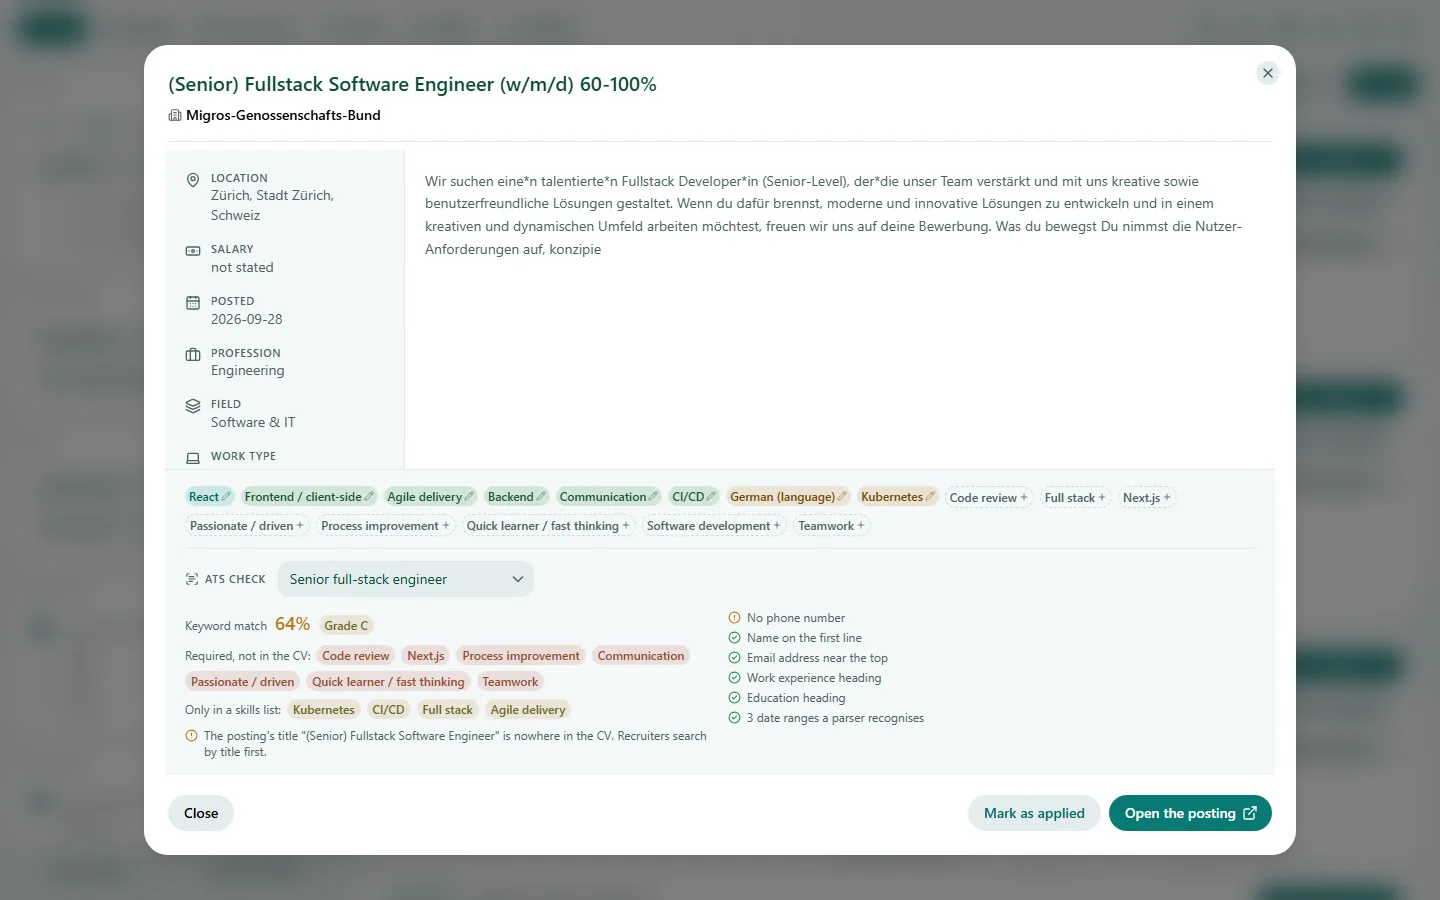
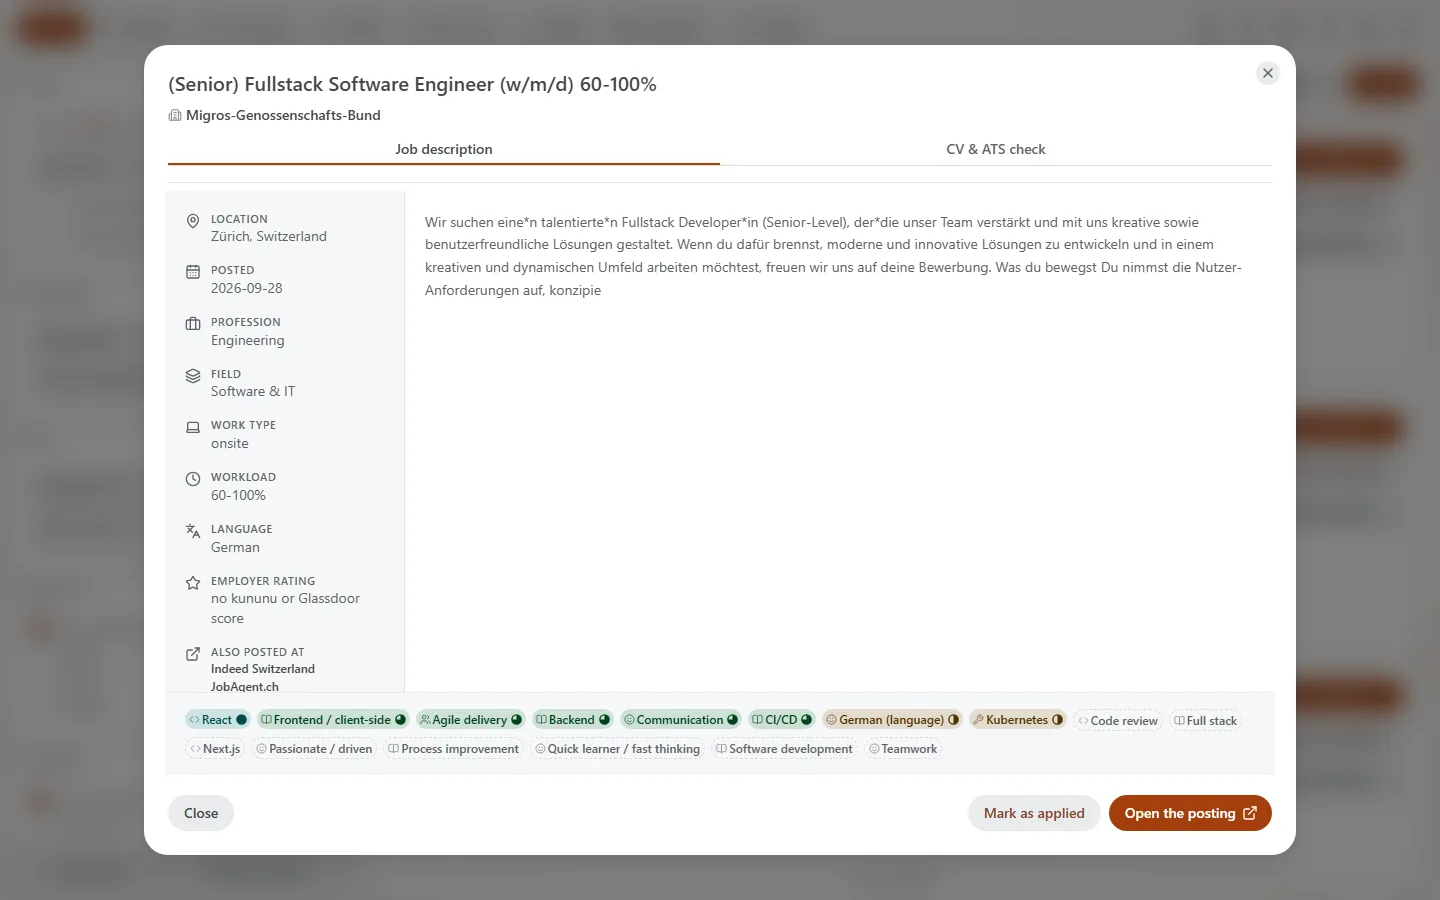
site: rebrand to I-Jobs - name, mark, palette, fresh screenshots
Shown name Job-I -> I-Jobs (binary, command, URLs unchanged), the new mark
and favicons, the I-Jobs light/dark palette (AA), and screenshots retaken
off the demo profile: new theme, no salaries (removed from the app).

diff --git a/site/index.html b/site/index.html
@@ -3,10 +3,10 @@
 <head>
 <meta charset="utf-8">
 <meta name="viewport" content="width=device-width, initial-scale=1">
-<title>Job-I</title>
-<meta name="description" content="Job-I pulls postings from company career sites and job boards, scores them against the skills you set, and keeps everything on your own machine. No account, no telemetry.">
+<title>I-Jobs</title>
+<meta name="description" content="I-Jobs pulls postings from company career sites and job boards, scores them against the skills you set, and keeps everything on your own machine. No account, no telemetry.">
 <meta name="color-scheme" content="light dark">
-<meta property="og:title" content="Job-I">
+<meta property="og:title" content="I-Jobs">
 <meta property="og:description" content="Every job from 800+ company career sites, scored against your own skills, on your machine.">
 <meta property="og:type" content="website">
 <meta property="og:image" content="https://canyavall.github.io/job-i/img/social_media_card.png">
@@ -25,7 +25,7 @@
         <source srcset="img/mark-dark.png" media="(prefers-color-scheme: dark)">
         <img src="img/mark.png" alt="" width="32" height="32">
       </picture>
-      <span>Job-I</span>
+      <span>I-Jobs</span>
     </a>
     <nav aria-label="Sections">
       <a href="#tools">Tools</a>
@@ -41,7 +41,7 @@
 <section class="hero">
   <div class="wrap">
     <h1>Every job from <span data-cov="floor">800+</span> company career sites, scored against your own skills, on your machine.</h1>
-    <p class="lead">Job-I reads the employers' own job pages and the boards you pick, puts every posting in one list, and ranks it by the skills you say you have and the skills you want to use. It runs on your computer. There is no account and nothing to sign up for.</p>
+    <p class="lead">I-Jobs reads the employers' own job pages and the boards you pick, puts every posting in one list, and ranks it by the skills you say you have and the skills you want to use. It runs on your computer. There is no account and nothing to sign up for.</p>
     <div class="cta">
       <a class="btn primary" id="dl-main" href="#download">Download</a>
       <a class="btn" href="#tools">See the tools</a>
@@ -50,7 +50,7 @@
     <figure class="shot hero-shot">
       <picture>
         <source srcset="img/jobs-dark.webp" media="(prefers-color-scheme: dark)">
-        <img src="img/jobs-light.webp" width="1440" height="900" alt="The Jobs screen: filters for profession, field and work type on the left, and a list of job cards, each with a Job-I score, the employer, location, date, and the skills the posting asks for.">
+        <img src="img/jobs-light.webp" width="1440" height="900" alt="The Jobs screen: filters for profession, field and work type on the left, and a list of job cards, each with an I-Jobs score, the employer, location, date, and the skills the posting asks for.">
       </picture>
       <figcaption>The Jobs screen, with the demo profile "Alex Demo".</figcaption>
     </figure>
@@ -75,7 +75,7 @@
           <source srcset="img/profile-dark.webp" media="(prefers-color-scheme: dark)">
           <img src="img/profile-light.webp" width="1440" height="900" loading="lazy" alt="The Profile screen: name, country and city, the professions picked, and tables of skills with a My expertise and a Goal importance number for each.">
         </picture>
-        <figcaption>Your profile: two numbers per skill. To fill it in the first time, Job-I writes a prompt. You paste it and your CV into any chat assistant you like, then paste the answer back.</figcaption>
+        <figcaption>Your profile: two numbers per skill. To fill it in the first time, I-Jobs writes a prompt. You paste it and your CV into any chat assistant you like, then paste the answer back.</figcaption>
       </figure>
     </article>
 
@@ -94,7 +94,7 @@
       <figure class="shot">
         <picture>
           <source srcset="img/job-dark.webp" media="(prefers-color-scheme: dark)">
-          <img src="img/job-light.webp" width="1440" height="900" loading="lazy" alt="A job posting opened in a dialog: location, salary, date and field on the left, the description, the skills it asks for, and an ATS check panel with a 64% keyword match, grade C, missing skills and a list of file checks.">
+          <img src="img/job-light.webp" width="1440" height="900" loading="lazy" alt="A job posting opened in a dialog: location, date, field, workload and employer rating on the left, the description, the skills it asks for, and an ATS check panel with a 64% keyword match, grade C, missing skills and a list of file checks.">
         </picture>
         <figcaption>One posting, with the CV check at the bottom.</figcaption>
       </figure>
@@ -103,20 +103,20 @@
     <article class="tool">
       <div class="text">
         <h3>Markets</h3>
-        <p>Every posting Job-I has ever pulled is kept, with the day it first appeared and the day it disappeared. The Markets tab uses that history to show:</p>
+        <p>Every posting I-Jobs has ever pulled is kept, with the day it first appeared and the day it disappeared. The Markets tab uses that history to show:</p>
         <ul>
           <li>how many jobs are posted over time</li>
           <li>which skills employers ask for, next to your own two numbers</li>
           <li>who is hiring</li>
           <li>how long roles stay open</li>
-          <li>salaries where postings publish them, plus the split by work mode and country</li>
+          <li>the split by work mode and country</li>
         </ul>
         <p>Filter by profession, field or country, or look at the whole market.</p>
       </div>
       <figure class="shot">
         <picture>
           <source srcset="img/markets-dark.webp" media="(prefers-color-scheme: dark)">
-          <img src="img/markets-light.webp" width="1440" height="900" loading="lazy" alt="The Market screen: counts of open and new jobs, the share that publishes a salary, and a table of skills in demand with the share of postings asking for each, next to the profile's expertise and goal numbers.">
+          <img src="img/markets-light.webp" width="1440" height="900" loading="lazy" alt="The Market screen: counts of open and new jobs, median days open, and a table of skills in demand with the share of postings asking for each, next to the profile's expertise and goal numbers.">
         </picture>
         <figcaption>Skills in demand, next to your own two numbers. The demo has only one day of history.</figcaption>
       </figure>
@@ -125,8 +125,8 @@
     <article class="tool">
       <div class="text">
         <h3>Applied</h3>
-        <p>Mark a job as applied and it moves to a timeline. Marking one copy covers every other place the same vacancy was posted. Attach the CV and cover letter you sent; Job-I keeps a copy as it was that day, so editing your CV later doesn't change the record.</p>
-        <p>If you connect your mailbox, Job-I reads it over IMAP with an app password you create and matches replies to the applications they answer. You can see who replied, who turned you down, and who has been quiet for how many days. The mailbox is off until you set it up.</p>
+        <p>Mark a job as applied and it moves to a timeline. Marking one copy covers every other place the same vacancy was posted. Attach the CV and cover letter you sent; I-Jobs keeps a copy as it was that day, so editing your CV later doesn't change the record.</p>
+        <p>If you connect your mailbox, I-Jobs reads it over IMAP with an app password you create and matches replies to the applications they answer. You can see who replied, who turned you down, and who has been quiet for how many days. The mailbox is off until you set it up.</p>
       </div>
       <figure class="shot">
         <picture>
@@ -154,8 +154,8 @@
     <article class="tool">
       <div class="text">
         <h3>Companies</h3>
-        <p>The company list ships with the app: every employer Job-I knows, where it is, and how to pull its jobs. Each one shows facts from public sources, labelled with where they came from: kununu and Glassdoor ratings, founding year and headcount from Wikidata, its public GitHub organisation, and Great Place to Work entries.</p>
-        <p>The list also says which employers can't be pulled yet, and why. Add a company yourself and Job-I looks up the same facts for it.</p>
+        <p>The company list ships with the app: every employer I-Jobs knows, where it is, and how to pull its jobs. Each one shows facts from public sources, labelled with where they came from: kununu and Glassdoor ratings, founding year and headcount from Wikidata, its public GitHub organisation, and Great Place to Work entries.</p>
+        <p>The list also says which employers can't be pulled yet, and why. Add a company yourself and I-Jobs looks up the same facts for it.</p>
       </div>
       <figure class="shot">
         <picture>
@@ -171,7 +171,7 @@
 <section id="privacy" class="privacy">
   <div class="wrap">
     <h2>Your data stays on your computer</h2>
-    <p class="lead">Job-I is one file. Put it in a folder, run it, and everything it creates goes in that folder: your profile, your CVs, your applications, the postings it pulled. Back it up, move it to another computer or delete it. There is no Job-I server and no account. Nothing about you is sent to us.</p>
+    <p class="lead">I-Jobs is one file. Put it in a folder, run it, and everything it creates goes in that folder: your profile, your CVs, your applications, the postings it pulled. Back it up, move it to another computer or delete it. There is no I-Jobs server and no account. Nothing about you is sent to us.</p>
     <div class="cols">
       <div>
         <h3>No telemetry</h3>
@@ -205,7 +205,7 @@
       <div data-stat="boards" hidden><dt>job boards</dt><dd data-cov="boards">-</dd></div>
       <div data-stat="classes" hidden><dt>skills in the dictionary</dt><dd data-cov="classes">-</dd></div>
     </dl>
-    <p class="small">Some companies on the list don't have a connection yet. Job-I shows them anyway and says what's blocking each one.</p>
+    <p class="small">Some companies on the list don't have a connection yet. I-Jobs shows them anyway and says what's blocking each one.</p>
   </div>
 </section>
 
@@ -227,7 +227,7 @@
     <p class="small">To check a file against its SHA-256: <code>certutil -hashfile job-i-windows-x64.exe SHA256</code> on Windows, <code>shasum -a 256 job-i-darwin-arm64</code> on macOS, <code>sha256sum job-i-linux-x64</code> on Linux.</p>
 
     <h3>First launch</h3>
-    <p>Put the file in an empty folder of its own, such as <code>Job-I</code>. When it starts, it creates its data next to itself and opens the dashboard. The files aren't code-signed yet, so your system will warn you the first time:</p>
+    <p>Put the file in an empty folder of its own, such as <code>I-Jobs</code>. When it starts, it creates its data next to itself and opens the dashboard. The files aren't code-signed yet, so your system will warn you the first time:</p>
     <div class="cols">
       <div>
         <h4>Windows</h4>
@@ -247,14 +247,14 @@ xattr -d com.apple.quarantine job-i-darwin-arm64
 ./job-i-linux-x64</code></pre>
       </div>
     </div>
-    <p class="small">After that, Job-I checks for updates itself and shows new versions in its notification bell. It never installs one without asking.</p>
+    <p class="small">After that, I-Jobs checks for updates itself and shows new versions in its notification bell. It never installs one without asking.</p>
   </div>
 </section>
 
 <section id="contribute" class="contribute">
   <div class="wrap">
     <h2>Contribute</h2>
-    <p>The company list and the skill dictionary are shared by everyone who uses Job-I. When you connect a new employer or fix a skill, that fix could help everybody else too. A "Share my changes" flow for sending them back is coming. Until then, bug reports and companies worth adding are welcome as issues on <a href="https://github.com/canyavall/job-i">github.com/canyavall/job-i</a>.</p>
+    <p>The company list and the skill dictionary are shared by everyone who uses I-Jobs. When you connect a new employer or fix a skill, that fix could help everybody else too. A "Share my changes" flow for sending them back is coming. Until then, bug reports and companies worth adding are welcome as issues on <a href="https://github.com/canyavall/job-i">github.com/canyavall/job-i</a>.</p>
   </div>
 </section>
 
@@ -262,7 +262,7 @@ xattr -d com.apple.quarantine job-i-darwin-arm64
 
 <footer class="foot">
   <div class="wrap">
-    <p>Job-I. Runs locally. This site uses no cookies and no analytics; the download button reads the current version from GitHub.</p>
+    <p>I-Jobs. Runs locally. This site uses no cookies and no analytics; the download button reads the current version from GitHub.</p>
   </div>
 </footer>
 </body>

diff --git a/site/style.css b/site/style.css
@@ -1,16 +1,18 @@
-/* Colours are the dashboard's own Job-I / Job-I Night themes (app/client/heroui/themes.ts). */
+/* Colours are the dashboard's own I-Jobs / I-Jobs Night themes (job-i-src
+   libs-fe/ui/theme/theme.constant.ts): Soft Paper / Charcoal Slate by day, Midnight Charcoal
+   by night, Horizon Orange deepened (day) or lifted (night) until it passes AA as text. */
 :root {
-  --bg: #f4f8f9; --surface: #ffffff; --surface2: #eef4f5; --border: #cfdddf;
-  --fg: #0d4c2d; --text: #1d3a30; --muted: #4a655d;
-  --accent: #0a7a74; --accent-fg: #ffffff; --teal: #0d9891;
+  --bg: #fafafa; --surface: #ffffff; --surface2: #f3f4f5; --border: #d9dde1;
+  --fg: #41474d; --text: #41474d; --muted: #5c636a;
+  --accent: #a33f0c; --accent-fg: #ffffff; --ring: #a33f0c;
   --radius: 14px;
   color-scheme: light dark;
 }
 @media (prefers-color-scheme: dark) {
   :root {
-    --bg: #10231d; --surface: #162f28; --surface2: #1c3831; --border: #2e4f47;
-    --fg: #e8f2f0; --text: #d5e4e0; --muted: #a3bab5;
-    --accent: #2cb5ab; --accent-fg: #06201b; --teal: #4fc9c0;
+    --bg: #1e232a; --surface: #252b33; --surface2: #2c333c; --border: #3b444f;
+    --fg: #eef0f2; --text: #eef0f2; --muted: #a9b1ba;
+    --accent: #ff8140; --accent-fg: #1e232a; --ring: #ff8140;
   }
 }
 
@@ -52,7 +54,7 @@ section:nth-of-type(even) { background: var(--surface2); }
 .btn { display: inline-block; padding: .7rem 1.3rem; border-radius: 999px; border: 1px solid var(--border); background: var(--surface); color: var(--fg); font-weight: 600; text-decoration: none; }
 .btn.primary { background: var(--accent); border-color: var(--accent); color: var(--accent-fg); }
 .btn:hover { filter: brightness(1.06); }
-.btn:focus-visible, a:focus-visible { outline: 3px solid var(--teal); outline-offset: 2px; }
+.btn:focus-visible, a:focus-visible { outline: 3px solid var(--ring); outline-offset: 2px; }
 
 .shot { margin: 0; }
 .shot img { border-radius: var(--radius); border: 1px solid var(--border); box-shadow: 0 10px 40px rgb(0 0 0 / .12); }
@@ -80,7 +82,7 @@ section:nth-of-type(odd) .cols > div { background: var(--surface2); }
 .dl { width: 100%; border-collapse: collapse; background: var(--surface); border-radius: var(--radius); overflow: hidden; }
 .dl th, .dl td { text-align: left; padding: .7rem .9rem; border-bottom: 1px solid var(--border); vertical-align: top; }
 .dl thead th { font-size: .85rem; color: var(--muted); }
-.dl tr.mine { background: color-mix(in srgb, var(--teal) 12%, transparent); }
+.dl tr.mine { background: color-mix(in srgb, var(--ring) 12%, transparent); }
 .dl td a { white-space: nowrap; }
 .dl .sha { font: .78rem/1.4 ui-monospace, Consolas, monospace; word-break: break-all; color: var(--muted); min-width: 12em; }
 .download h3 { margin-top: 2.5rem; }
